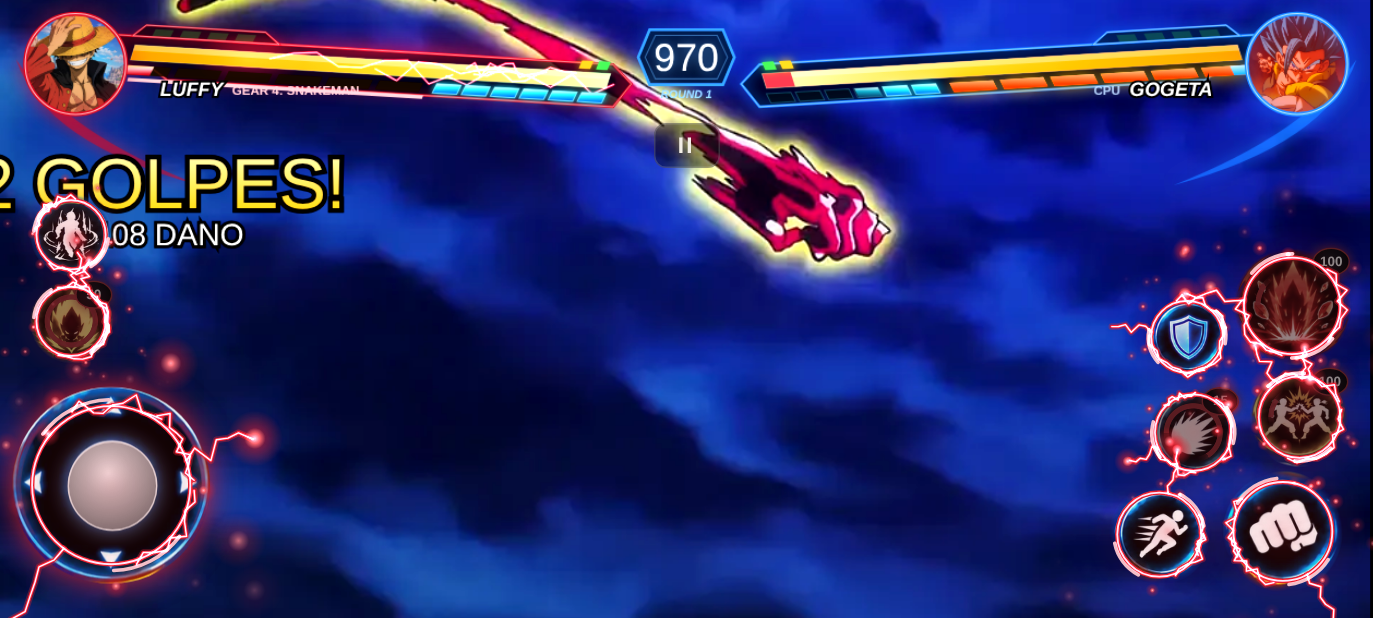
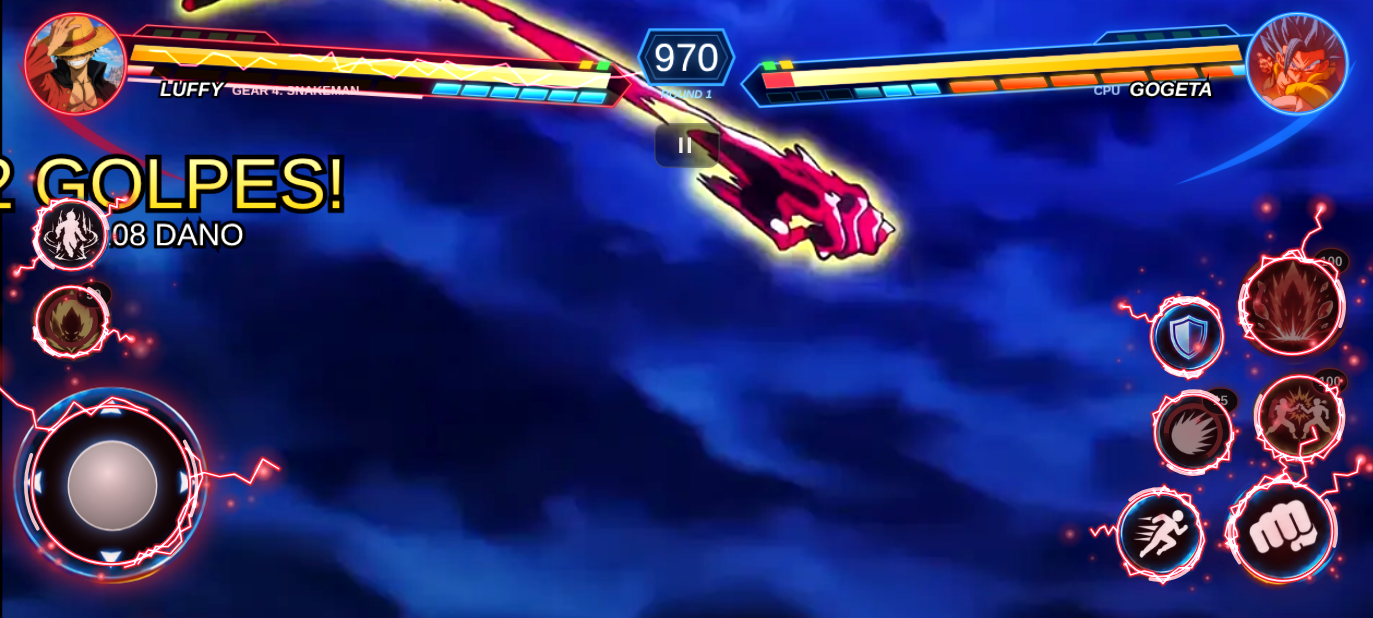
v152: Luffy — tira o braço esticado do Ki (volta a rajada de ar) e raios vermelhos no corpo no Snakeman
Claude-Session: https://claude.ai/code/session_01KtrZTmDkLnY2EE7eHvUsq1

diff --git a/www/index.html b/www/index.html
@@ -3292,17 +3292,9 @@ function lfCombo(f,o){lfLoad();f.state='lfc';f.st=0;f.vx=0;f.move=null;f.guard=f
 function lfHand(f){const k=LFK[f.state]?lfKey(f):spriteKey(f),L=SPRH[ssid(f)][k[0]],F=L&&L[Math.min(L.length-1,k[1])];return F?[f.x+f.facing*(F.rx-10),f.y-F.ry]:[f.x+f.facing*90,f.y-170]}
 function lfStep(f){const o=lfOpp(f),t=++f.st,fw=f.facing,form=!!f.form;
   if(f.state==='lfp'){
-    if(t===6){const h=lfHand(f);f.lfArm={x0:h[0],y0:h[1],len:0,max:form?(f.lfS?780:640):(f.lfS?620:500),ty:h[1],out:1,hit:0};SFX.whoosh();G.shake=Math.max(G.shake,f.lfS?5:3);
+    if(t===6){const h=lfHand(f);LFAIR.push({o:f,x:h[0],y:h[1],x0:h[0],dir:fw,vx:fw*(form?30:26),t:0,form,strong:f.lfS,max:form?(f.lfS?760:640):(f.lfS?600:480)});SFX.whoosh();G.shake=Math.max(G.shake,f.lfS?5:3);
       if(f.lfS||form)fzTag(f,form?(f.lfS?'Jet Culverin!':'Culverin!'):'Gomu Gomu no Pistol!')}
-    const A=f.lfArm;
-    if(A){const h=lfHand(f);A.x0=h[0];A.y0=h[1];
-      if(A.out){A.len=Math.min(A.max,A.len+(form?90:72));if(form&&o)A.ty+=((o.y-140)-A.ty)*.2;else A.ty=A.y0;const tx=A.x0+fw*A.len;
-        if(o&&!o.ko&&!A.hit&&Math.sign(o.x-f.x)===fw&&Math.abs(o.x-tx)<70&&A.ty>o.y-280&&A.ty<o.y+10){A.hit=1;A.out=0;
-          applyHit(f,o,{dmg:form?(f.lfS?110:82):(f.lfS?95:65),kb:f.lfS?6:3,hs:f.lfS?20:16,heavy:f.lfS?1:0,px:tx,py:A.ty,kind:'blast'});
-          lfPuff(tx,A.ty,form,1.3);G.shake=Math.max(G.shake,f.lfS?10:5);if(o.hp<=0)ko(f,o)}
-        if(A.len>=A.max)A.out=0}
-      else{A.len=Math.max(0,A.len-(form?110:90));if(A.len<=0)f.lfArm=null}}
-    if(!f.lfArm&&t>=24)neutral(f);if(t>60){f.lfArm=null;neutral(f)}return}
+    if(t>=30)neutral(f);return}
   if(f.state==='lfg'){
     if(t>=10&&t<=48&&t%4===0&&o&&!o.ko&&Math.sign(o.x-f.x)===fw&&Math.abs(o.x-f.x)<(form?420:330)&&Math.abs(o.y-f.y)<150){
       applyHit(f,o,{dmg:form?20:16,kb:.6,hs:7,px:o.x-fw*30+rand(-10,10),py:o.y-rand(110,200),kind:'melee'});spark(o.x-fw*30,o.y-rand(110,200),form?'#ff7a88':'#fff3d0',4,7);if(o.hp<=0)ko(f,o)}
@@ -3352,6 +3344,11 @@ function drawLf(){for(const f of G.p)if(f&&isLf(f)&&f.lfArm&&f.hide<=0){if(f.sta
   ctx.restore()}
 /* aura: normal só carregando (fumaça do GIF em cinza-claro); Snakeman = fumaça leve subindo + raios vermelhos de Haki */
 const LFW=[];
+function lfBoltsFront(f){const ch=f.state==='charge';const A=f.lfZ||(f.lfZ=[]);
+  if(A.length<(ch?6:4)&&Math.random()<(ch?.8:.5)){const n=5+((Math.random()*4)|0);let x=f.x+rand(-55,55),y=f.y-rand(40,240);const pts=[[x,y]];const d=rand(0,6.28);for(let i=0;i<n;i++){x+=Math.cos(d)*rand(8,18)+rand(-10,10);y+=Math.sin(d)*rand(8,18)+rand(-12,12);pts.push([x,y])}A.push({pts,l:0,m:3+((Math.random()*3)|0),w:rand(1.4,2.6)})}
+  ctx.save();ctx.globalCompositeOperation='lighter';ctx.lineJoin='round';ctx.lineCap='round';
+  for(const b of A){b.l++;const a=1-b.l/(b.m+1);for(const [lw,col,al] of [[b.w*5,'#b0101e',.35],[b.w*2.2,'#ff4a5a',.85],[b.w,'#ffe2e6',1]]){ctx.strokeStyle=rgba(col,al*a);ctx.lineWidth=lw;ctx.beginPath();b.pts.forEach((p,i)=>i?ctx.lineTo(p[0],p[1]):ctx.moveTo(p[0],p[1]));ctx.stroke()}}
+  ctx.restore();f.lfZ=A.filter(b=>b.l<b.m)}
 function lfAura(f,k){const t=G.frame,cx=f.x,base=f.y,ch=f.state==='charge';
   if(ch&&LFA.img.complete&&LFA.img.naturalWidth){const i=Math.floor(t/4)%LFA.n,h=(f.form?350:320)*(1+.04*Math.sin(t*.5)),w=h*LFA.w/LFA.h;
     ctx.save();ctx.globalCompositeOperation='screen';ctx.globalAlpha=.42;ctx.translate(cx,base-h*.46);ctx.scale((t>>4)%2?1:-1,1);ctx.drawImage(LFA.img,0,i*LFA.h,LFA.w,LFA.h,-w/2,-h/2,w,h);ctx.restore()}
@@ -4302,7 +4299,7 @@ function render(){
   drawVolFX();drawSRBack();
   const order=G.p.slice().sort((a,b)=>(a.state==='attack'||a.state==='super'||!!a.rushKey)-(b.state==='attack'||b.state==='super'||!!b.rushKey));
   drawIceFloor();drawZFX(0);drawDashTrail();drawFZ(0);
-  for(const f of order)if(!(G.trans&&G.trans.f===f)){renderFighter(f);drawIceBody(f);if(isGj(f)&&f.form)gjFireFront(f)}
+  for(const f of order)if(!(G.trans&&G.trans.f===f)){renderFighter(f);drawIceBody(f);if(isGj(f)&&f.form)gjFireFront(f);if(isLf(f)&&f.form&&f.hide<=0)lfBoltsFront(f)}
   drawZFX(1);drawFZ(1);
   for(const f of G.p){if(f.hide>0||(G.trans&&G.trans.f===f))continue;if((f.state==='charge'||(f.ent&&f.ent.pw))&&!isMd(f)&&!isGj(f)&&!isLf(f)){const KC=auraTex('kic',E(f)),A=AUX.kic;if(KC){ctx.save();ctx.globalCompositeOperation='lighter';const h=440,w=h*A.w/A.h;blitF(KC,A.n,((G.frame+5)/3|0),f.x,f.y-h*.42,w,h,-1,.2);ctx.restore()}}}
   for(const p of G.projs)drawProj(p);

diff --git a/GUIA-CLAUDE.md b/GUIA-CLAUDE.md
@@ -237,6 +237,10 @@ O dono mandou uma especificação ("SISTEMA PROFISSIONAL DE COMBATE 2D": animaç
 - Braço de borracha agora é o DESENHO do dono (tira de 4 quadros, `novo_lf/v2/braco.png`): recortado sem a manga, atlas `LFARMS` (L = braço comprido, S = punho curto; LH/SH = versões Haki vermelho-escuro para o Snakeman). Pistol/Culverin: `lfArmDraw` estica o braço (L) da mão até o alcance, punho na ponta, e volta. Gatling/Black Mamba: vários punhos (S) espalhados + puffs brancos com miolo cinza e arcos (`LFFIST`, `LFPUFF`, `lfPuff`) — imitando o GIF que o dono mandou (o GIF em si é cena do anime, não dá para recortar).
 - Luffy normal NÃO voa (`startFly` bloqueia; mensagem "SÓ VOA NO GEAR 4"). Snakeman voa.
 
+## v152 — Luffy: braço esticado desenhado REMOVIDO (pedido do dono)
+- O dono não quer o braço esticado (nem o desenhado pelo Claude, nem o desenho dele esticado pelo jogo). Ki/Pistol voltou ao da v150: soco rápido + rajada de ar (`LFAIR`). `LFARMS`/`lfArmDraw` ficam no código mas o `lfArm` nunca é criado. Os punhos da Gatling (`LFFIST`) e os puffs ficaram (o dono aprovou "o resto dos efeitos").
+- Snakeman: raios vermelhos também NA FRENTE do corpo (`lfBoltsFront`, chamado depois do `renderFighter`), além dos de trás.
+
 ## Pendências / ideias
 - Vegeta transformado: faltam poses próprias de carregar ki, rajada de ki, soco e chute no ar (hoje usa grito da vitória, soco e chute alto). Se o dono mandar, trocar no `build_vegeta_blue2.py` e no mapa `A`.
 - A segunda folha de "gancho para cima" do Vegeta transformado não foi usada.
